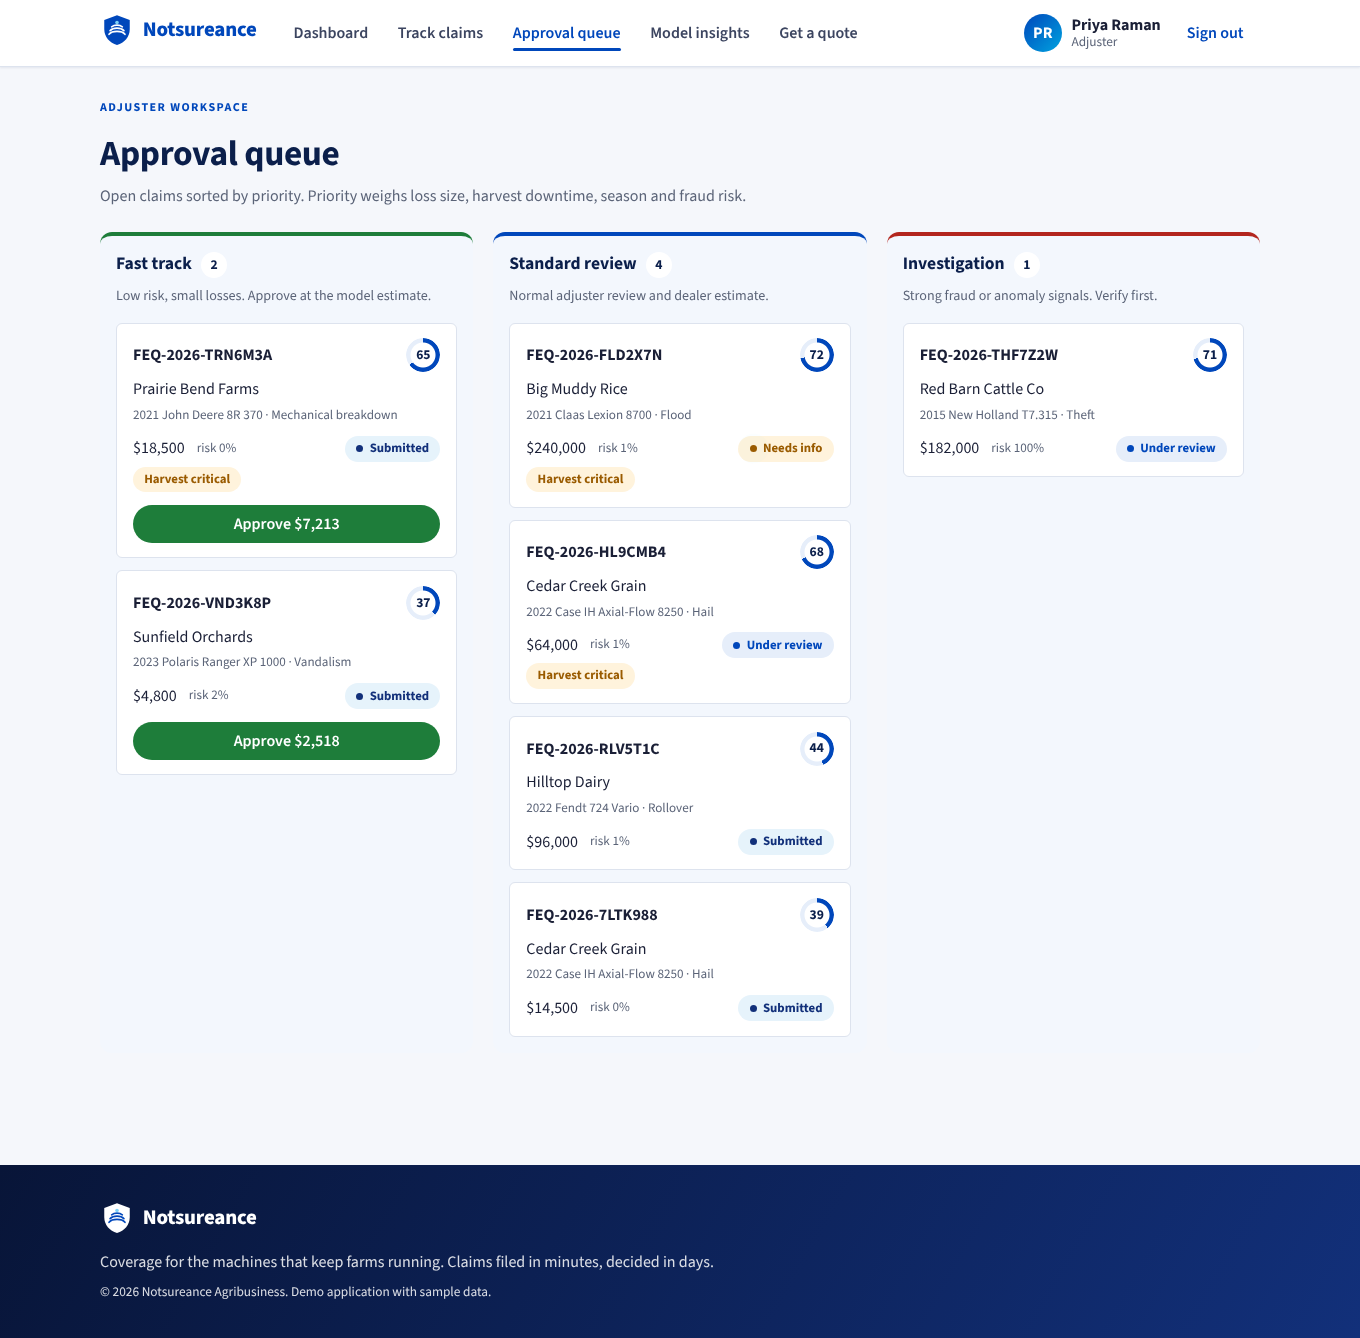
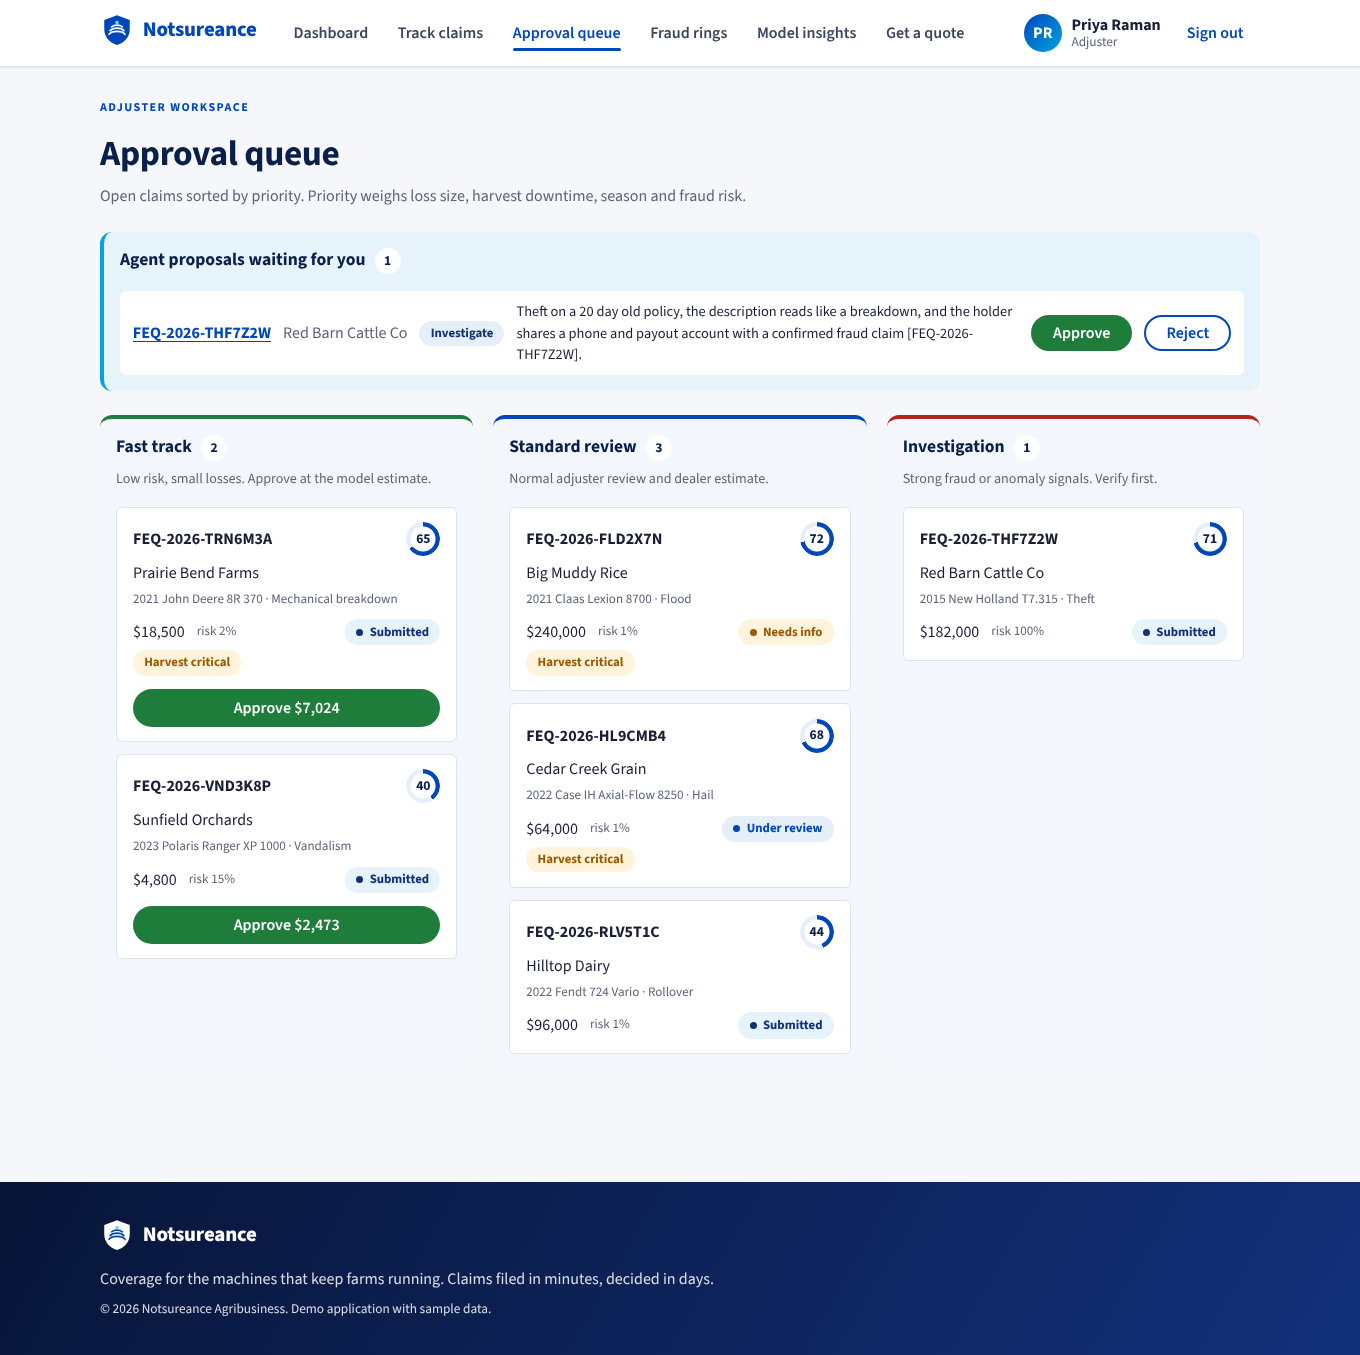
Fixed deep links to new pages, timeline spacing and graph identifier labels after a browser check

diff --git a/frontend/src/app/features/claims/detail/agent-panel.component.html b/frontend/src/app/features/claims/detail/agent-panel.component.html
@@ -36,7 +36,7 @@
         <p class="answer"><app-cited-text [text]="run.answer" [valid]="run.citations" /></p>
       }
       @if (!run.supported && run.status === 'COMPLETED') {
-        <p class="banner warn-banner">This answer cites nothing a tool returned. Treat it as unsupported.</p>
+        <p class="banner warn-banner">This answer cites nothing, or cites an id no tool returned in this run (struck through). Treat it as unsupported.</p>
       }
 
       @if (run.proposal; as proposal) {

diff --git a/frontend/src/app/features/claims/detail/claim-timeline.component.ts b/frontend/src/app/features/claims/detail/claim-timeline.component.ts
@@ -50,6 +50,7 @@ const TITLES: Record<TimelineEntry['type'], string> = {
     .AGENT_RECOMMENDED .dot { background: var(--sky-strong); box-shadow: 0 0 0 4px var(--info-bg); }
     li:last-child .dot { animation: pulse-ring 2s infinite; }
     p { margin: 0.2rem 0; }
+    small { display: block; }
   `,
 })
 export class ClaimTimelineComponent {

diff --git a/backend/src/main/java/com/notsureance/claims/graph/FraudGraphRepository.java b/backend/src/main/java/com/notsureance/claims/graph/FraudGraphRepository.java
@@ -27,7 +27,7 @@ public class FraudGraphRepository {
             WITH other, shortest, count(claim) AS claims,
                  count(CASE WHEN claim.flagged THEN 1 END) AS flagged, sum(claim.amount) AS claimed
             RETURN other.key AS claimantKey, other.name AS name, length(shortest) / 2 AS hops,
-                   [n IN nodes(shortest) WHERE NOT n:Claimant | labels(n)[0] + ': ' + n.display] AS via,
+                   [n IN nodes(shortest) WHERE NOT n:Claimant | n.display] AS via,
                    claims, flagged, coalesce(claimed, 0.0) AS claimed
             ORDER BY hops, flagged DESC, claimed DESC
             LIMIT 20
@@ -36,7 +36,7 @@ public class FraudGraphRepository {
     private static final String SHARED_PAIRS = """
             MATCH (a:Claimant)-[:USES|PAID_TO|REPAIRED_AT]->(i)<-[:USES|PAID_TO|REPAIRED_AT]-(b:Claimant)
             WHERE a.key < b.key
-            WITH a, b, collect(DISTINCT labels(i)[0] + ': ' + i.display) AS shared
+            WITH a, b, collect(DISTINCT i.display) AS shared
             WHERE size(shared) >= 2
             RETURN a.key AS left, b.key AS right, shared
             """;

diff --git a/backend/src/main/java/com/notsureance/claims/graph/ClaimGraphRecord.java b/backend/src/main/java/com/notsureance/claims/graph/ClaimGraphRecord.java
@@ -27,7 +27,7 @@ record ClaimGraphRecord(Map<String, Object> parameters) {
         p.put("bankHash", policy.getPayoutAccountHash());
         p.put("bankDisplay", maskTail(policy.getPayoutAccountHash(), "account ref "));
         String dealer = claim.getRepairDealer();
-        p.put("dealer", dealer);
+        p.put("dealer", dealer == null ? null : "repair shop " + dealer);
         p.put("dealerKey", dealer == null ? null : dealer.toLowerCase(Locale.ROOT).replaceAll("[^a-z0-9]", ""));
         return new ClaimGraphRecord(p);
     }

diff --git a/backend/src/main/java/com/notsureance/claims/config/SpaForwardingController.java b/backend/src/main/java/com/notsureance/claims/config/SpaForwardingController.java
@@ -6,7 +6,8 @@ import org.springframework.web.bind.annotation.GetMapping;
 @Controller
 public class SpaForwardingController {
 
-    @GetMapping({"/", "/login", "/quote", "/dashboard", "/claims/**", "/queue", "/leads", "/insights"})
+    // Any single lowercase segment is an app page, so a new route could not 404 on refresh again.
+    @GetMapping({"/", "/{page:[a-z-]+}", "/claims/**"})
     public String forwardToApp() {
         return "forward:/index.html";
     }
